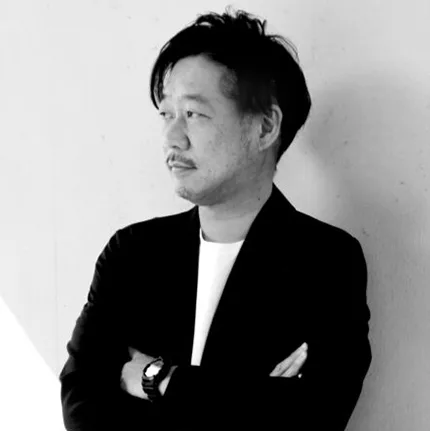
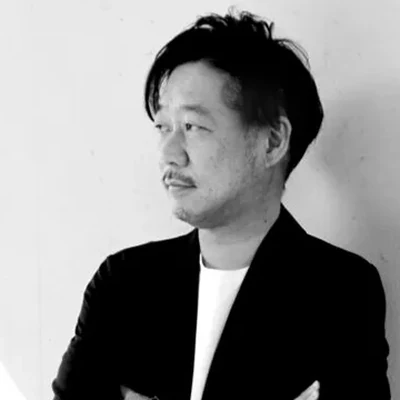
update dplus member cards

diff --git a/dplus/index.html b/dplus/index.html
@@ -29,7 +29,7 @@
   <link
     href="https://fonts.googleapis.com/css2?family=Inter:wght@400;500;700;800&family=Noto+Sans+JP:wght@400;500;700;900&display=swap"
     rel="stylesheet">
-  <link rel="stylesheet" href="./styles.css?v=20260423e">
+  <link rel="stylesheet" href="./styles.css?v=20260423i">
 </head>
 
 <body class="dplus-page">
@@ -195,9 +195,9 @@
       </div>
       <div class="member-cards">
         <article class="member-card" data-reveal>
-          <img src="../assets/wp/sukeda.webp" alt="助田 正樹" loading="lazy">
+          <img src="./assets/sukeda.webp" alt="助田 正樹" loading="lazy">
           <h3>助田 正樹</h3>
-          <p class="kicker">事務局長</p>
+          <p class="role">事務局長</p>
           <p>Web・IT企業の採用・組織支援。3,000名の対話実績に基づく「目利き」と「仕組み化」で、人材ミスマッチを防ぎ、事業成長を裏から支えます。</p>
           <div class="member-links">
             <a class="x-icon-link" href="https://x.com/masakisukeda" target="_blank" rel="noopener noreferrer"
@@ -207,7 +207,7 @@
         <article class="member-card" data-reveal data-delay="120">
           <img src="./assets/take.webp" alt="幸野 剛士" loading="lazy">
           <h3>幸野 剛士</h3>
-          <p class="kicker">事務局メンバー</p>
+          <p class="role">事務局メンバー</p>
           <p>集まれ！Webディレクターの森主催。Webディレクター歴9年。ブランディング、サイト構想、ゲスト調整、クリエイティブ制作をリード。</p>
           <div class="member-links">
             <a class="x-icon-link" href="https://x.com/takelogtake" target="_blank" rel="noopener noreferrer"
@@ -215,9 +215,9 @@
           </div>
         </article>
         <article class="member-card" data-reveal data-delay="240">
-          <img src="../assets/wp/uno-kenji_photo.webp" alt="宇野 健児" loading="lazy">
+          <img src="./assets/uno.webp" alt="宇野 健児" loading="lazy">
           <h3>宇野 健児</h3>
-          <p class="kicker">事務局メンバー</p>
+          <p class="role">事務局メンバー</p>
           <p>Webディレクター兼UXデザイナー。Web・情報設計とUXが主戦場。「知識は足し算、アイディアは掛け算」を信条に、最良のクリエイティブを。</p>
           <div class="member-links">
             <a class="x-icon-link" href="https://x.com/uno_design_info" target="_blank" rel="noopener noreferrer"
@@ -225,9 +225,9 @@
           </div>
         </article>
         <article class="member-card" data-reveal data-delay="360">
-          <img src="../assets/wp/KQP6hgBO_400x400.webp" alt="中島 勝悟" loading="lazy">
+          <img src="./assets/nasho.webp" alt="中島 勝悟" loading="lazy">
           <h3>中島 勝悟</h3>
-          <p class="kicker">事務局メンバー</p>
+          <p class="role">事務局メンバー</p>
           <p>合同会社ゆらり｜一般社団法人ディレクションサポート協会（DiSA）会長｜Adobe Community Expert｜まるみデザインファーム｜Webディレクターの森</p>
           <div class="member-links">
             <a class="x-icon-link" href="https://x.com/ath_design" target="_blank" rel="noopener noreferrer"
@@ -235,9 +235,9 @@
           </div>
         </article>
         <article class="member-card" data-reveal data-delay="480">
-          <img src="../assets/wp/kamata.webp" alt="鎌田 麻三子" loading="lazy">
+          <img src="./assets/kamata.webp" alt="鎌田 麻三子" loading="lazy">
           <h3>鎌田 麻三子</h3>
-          <p class="kicker">事務局メンバー</p>
+          <p class="role">事務局メンバー</p>
           <p>日本ディレクション協会のファウンダー/代表理事。アプリ・Web制作、コミュニティ運営、SNS活用まで越境して場を広げる。</p>
         </article>
       </div>

diff --git a/dplus/styles.css b/dplus/styles.css
@@ -573,14 +573,33 @@ h2 {
 
 .member-card {
   text-align: center;
+  display: flex;
+  flex-direction: column;
+}
+
+.member-card .role {
+  display: inline-block;
+  align-self: center;
+  background: var(--primary-yellow);
+  color: var(--text-black);
+  padding: 6px 16px;
+  margin-bottom: 18px;
+  font-size: 0.95rem;
+  font-weight: 900;
+  line-height: 1;
+  letter-spacing: 0.12em;
+  transform: rotate(-2deg);
+  white-space: nowrap;
 }
 
 .member-card img {
-  width: 100%;
+  width: min(100%, 280px);
   aspect-ratio: 1/1;
   object-fit: cover;
+  object-position: center center;
+  display: block;
   border: 4px solid var(--primary-yellow);
-  margin-bottom: 20px;
+  margin: 0 auto 20px;
   filter: grayscale(1);
   transition: filter 0.3s;
 }
@@ -747,6 +766,10 @@ h2 {
 }
 
 @media (max-width: 768px) {
+  .brand-mark {
+    height: 32px;
+  }
+
   .nav-toggle {
     display: block;
   }
